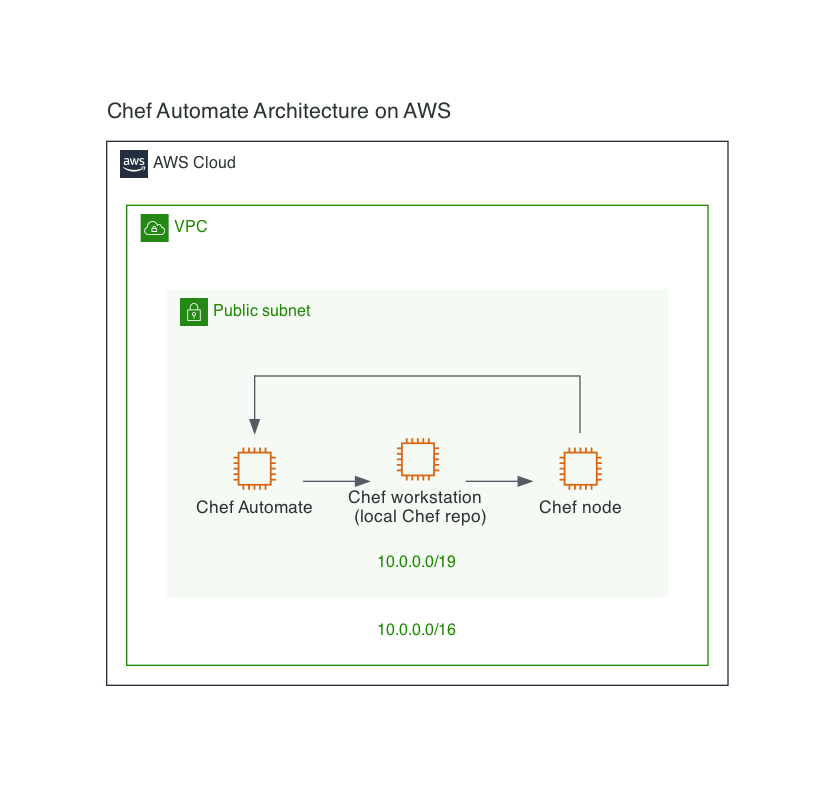
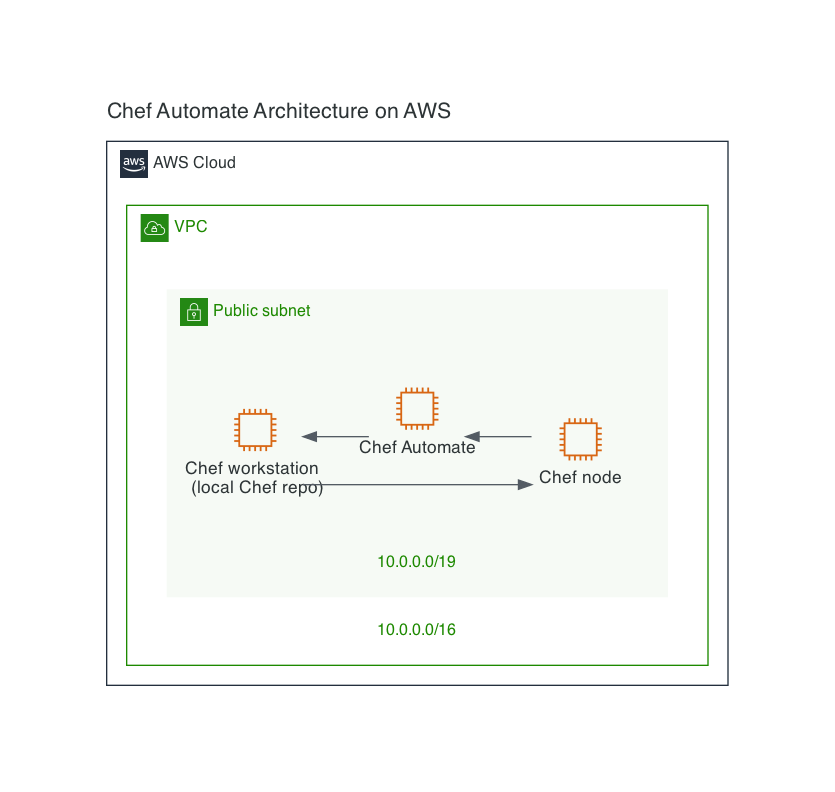
fix(@rediagram/gallery): update diagram

Changed region(s): [[0.218, 0.4848, 0.7473, 0.6667]]

diff --git a/examples/gallery/src/ChefAutomateArchitectureOnAWS.rediagram.tsx b/examples/gallery/src/ChefAutomateArchitectureOnAWS.rediagram.tsx
@@ -13,7 +13,7 @@ PNG(
           <EC2 type="Instance" name="instance2" downstream={['instance3']}>
             Chef node
           </EC2>
-          <EC2 type="Instance" name="instance3" upstream={['instance1']}>
+          <EC2 type="Instance" name="instance3" downstream={['instance1']}>
             Chef Automate
           </EC2>
         </VPC>

diff --git a/examples/gallery/README.md b/examples/gallery/README.md
@@ -18,8 +18,8 @@
 
 ### [App Engine and Cloud Endpoints](./src/AppEngineAndCloudEndpoints.rediagram.tsx)
 
-![App Engine and Cloud Endpoints](img/AppEngineAndCloudEndpoints.rediagram.png)
+![App Engine and Cloud Endpoints](./img/AppEngineAndCloudEndpoints.rediagram.png)
 
 ### [Content Management](./src/ContentManagement.rediagram.tsx)
 
-![Content Management](img/ContentManagement.rediagram.png)
+![Content Management](./img/ContentManagement.rediagram.png)
